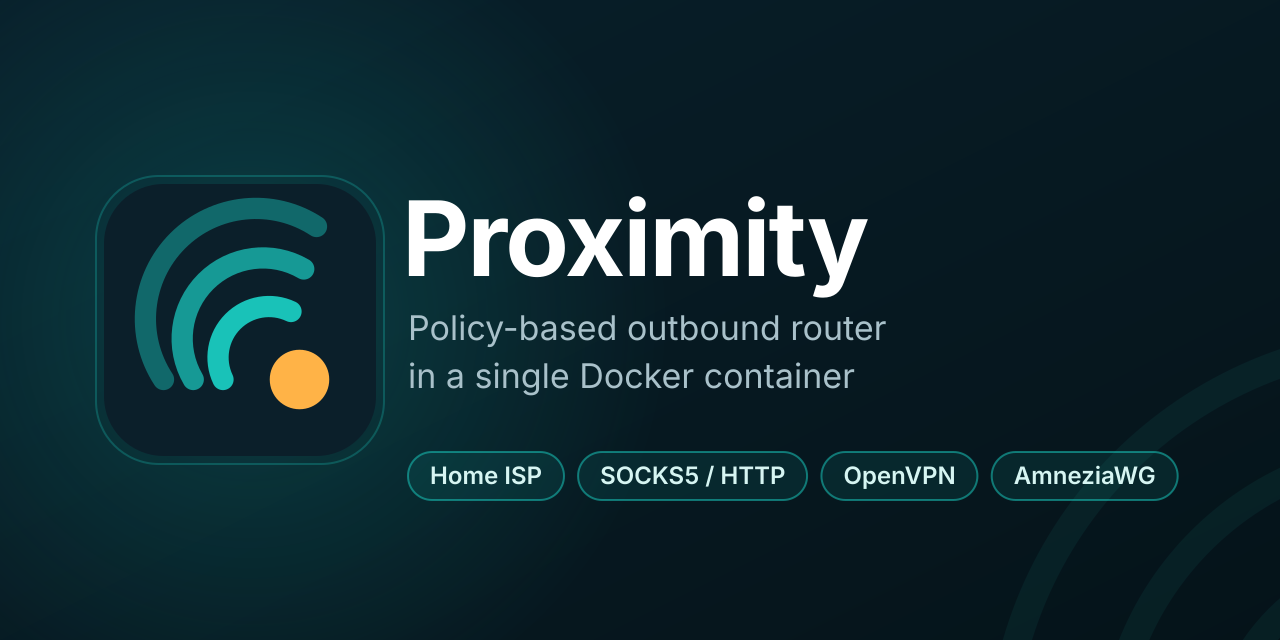
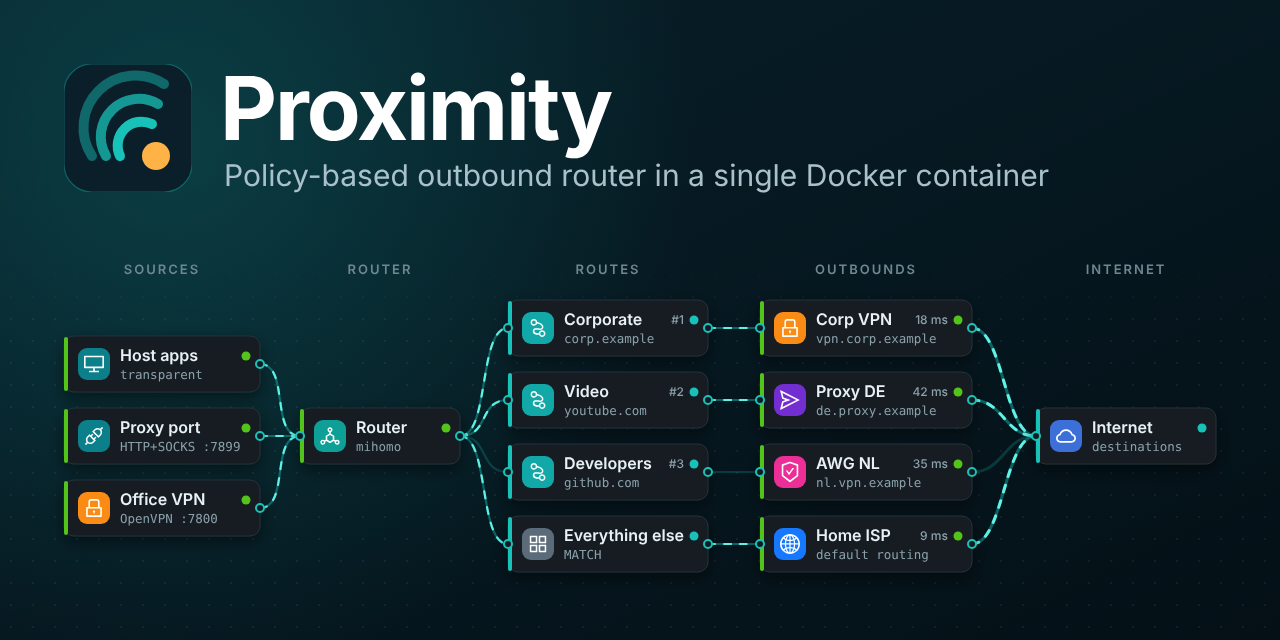
Refresh social preview and move license to Markdown
Redraw the GitHub social preview with a dark-theme connection map
under the logo and tagline. Format the MIT license as LICENSE.md,
point the README badge and links to it, and add a short summary of
the terms with the SPDX identifier to the README License section.
Remove the unused users.png screenshot.

diff --git a/README.md b/README.md
@@ -16,7 +16,7 @@
   <img alt="Vue" src="https://img.shields.io/badge/Vue-3-42b883?logo=vuedotjs&logoColor=white">
   <img alt="mihomo" src="https://img.shields.io/badge/mihomo-v1.19.34-0b1f2a">
   <img alt="Docker" src="https://img.shields.io/badge/Docker-ready-2496ED?logo=docker&logoColor=white">
-  <a href="LICENSE"><img alt="License: MIT" src="https://img.shields.io/badge/license-MIT-blue"></a>
+  <a href="LICENSE.md"><img alt="License: MIT" src="https://img.shields.io/badge/license-MIT-blue"></a>
 </p>
 
 <p align="center">
@@ -349,5 +349,18 @@ Bug reports and test results from these environments are very welcome.
 
 ## License
 
-Proximity is released under the [MIT License](LICENSE). Bundled third-party components
-(mihomo, OpenVPN, amneziawg-go, amneziawg-tools, GeoIP/GeoSite data) keep their own licenses.
+Proximity is free software distributed under the [MIT License](LICENSE.md), one of the most
+permissive open source licenses. In short:
+
+- You may use, copy, modify, merge, publish, distribute, sublicense and sell the software,
+  in open source and in closed-source commercial products alike.
+- You must keep the copyright notice and the license text in all copies or substantial
+  portions of the software.
+- No warranty: the software is provided "as is", and the authors are not liable for any
+  claim or damages arising from its use.
+
+This summary is for convenience only; the full text in [LICENSE.md](LICENSE.md) is what
+applies. SPDX identifier: `MIT`.
+
+Bundled third-party components (mihomo, OpenVPN, amneziawg-go, amneziawg-tools, GeoIP/GeoSite
+data) keep their own licenses.

diff --git a/LICENSE.md b/LICENSE.md
@@ -1,4 +1,4 @@
-MIT License
+# MIT License
 
 Copyright (c) 2026 Proximity project
 
